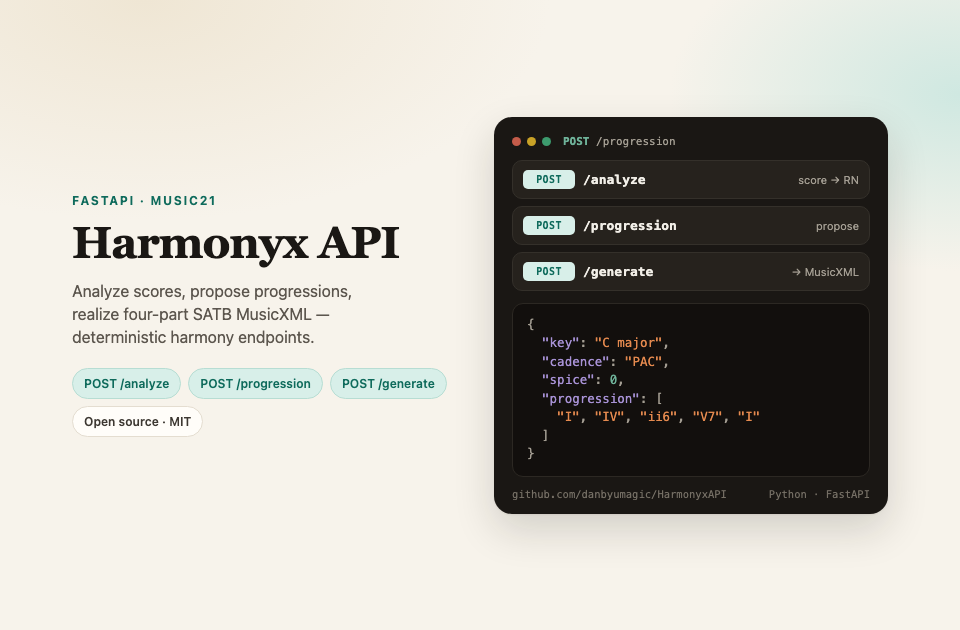
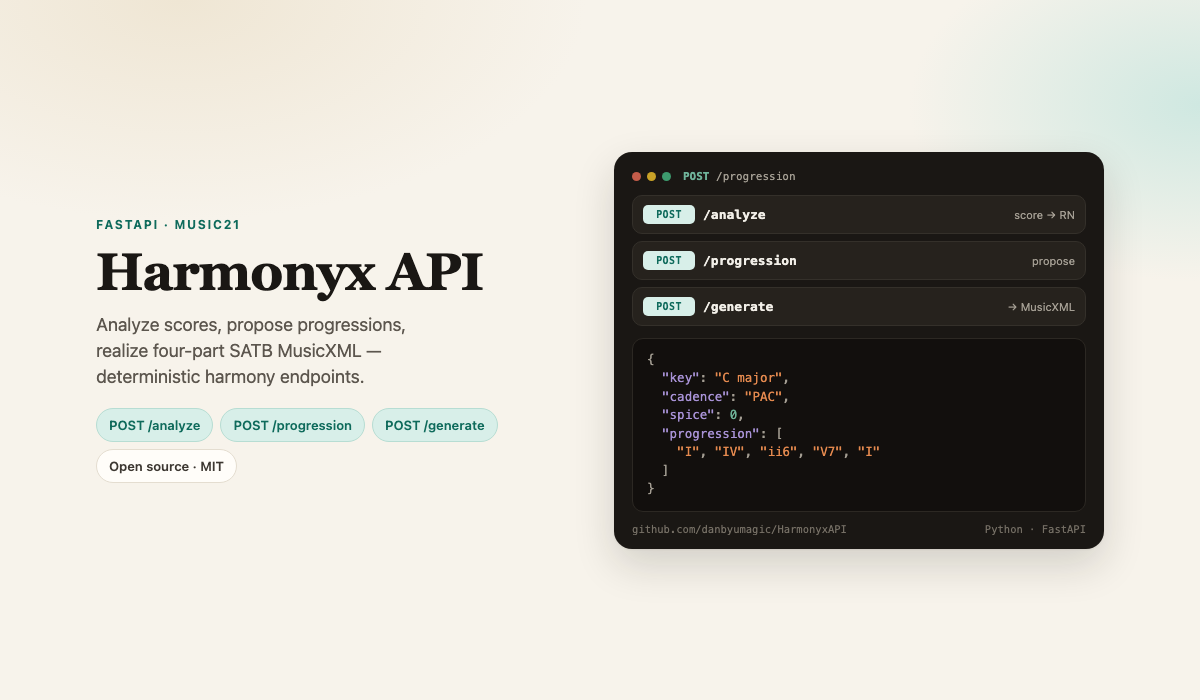
Set portfolio preview image to 1200×700

diff --git a/assets/harmonyx-portfolio-preview.html b/assets/harmonyx-portfolio-preview.html
@@ -5,8 +5,8 @@
 <style>
   * { box-sizing: border-box; margin: 0; padding: 0; }
   html, body {
-    width: 960px;
-    height: 630px;
+    width: 1200px;
+    height: 700px;
     overflow: hidden;
   }
   body {
@@ -24,14 +24,14 @@
   .frame {
     width: 100%;
     height: 100%;
-    padding: 64px 72px;
+    padding: 72px 96px;
     display: flex;
     align-items: center;
     justify-content: center;
   }
   .inner {
     width: 100%;
-    max-width: 816px; /* leaves room for the outer padding */
+    max-width: 1008px; /* leaves room for the outer padding */
     display: grid;
     grid-template-columns: 1fr 1fr;
     gap: 28px;
@@ -53,14 +53,14 @@
   }
   h1 {
     font-family: Georgia, "Iowan Old Style", "Palatino Linotype", serif;
-    font-size: 44px;
+    font-size: 52px;
     line-height: 1.08;
     letter-spacing: -0.02em;
     font-weight: 650;
     margin-bottom: 12px;
   }
   .lede {
-    font-size: 16px;
+    font-size: 18px;
     line-height: 1.45;
     color: #5c564e;
     max-width: 28ch;
@@ -72,9 +72,9 @@
     gap: 7px;
   }
   .pill {
-    font-size: 12px;
+    font-size: 13px;
     font-weight: 600;
-    padding: 7px 11px;
+    padding: 8px 12px;
     border-radius: 999px;
     background: #fffdf9;
     border: 1px solid #e4ddd0;
